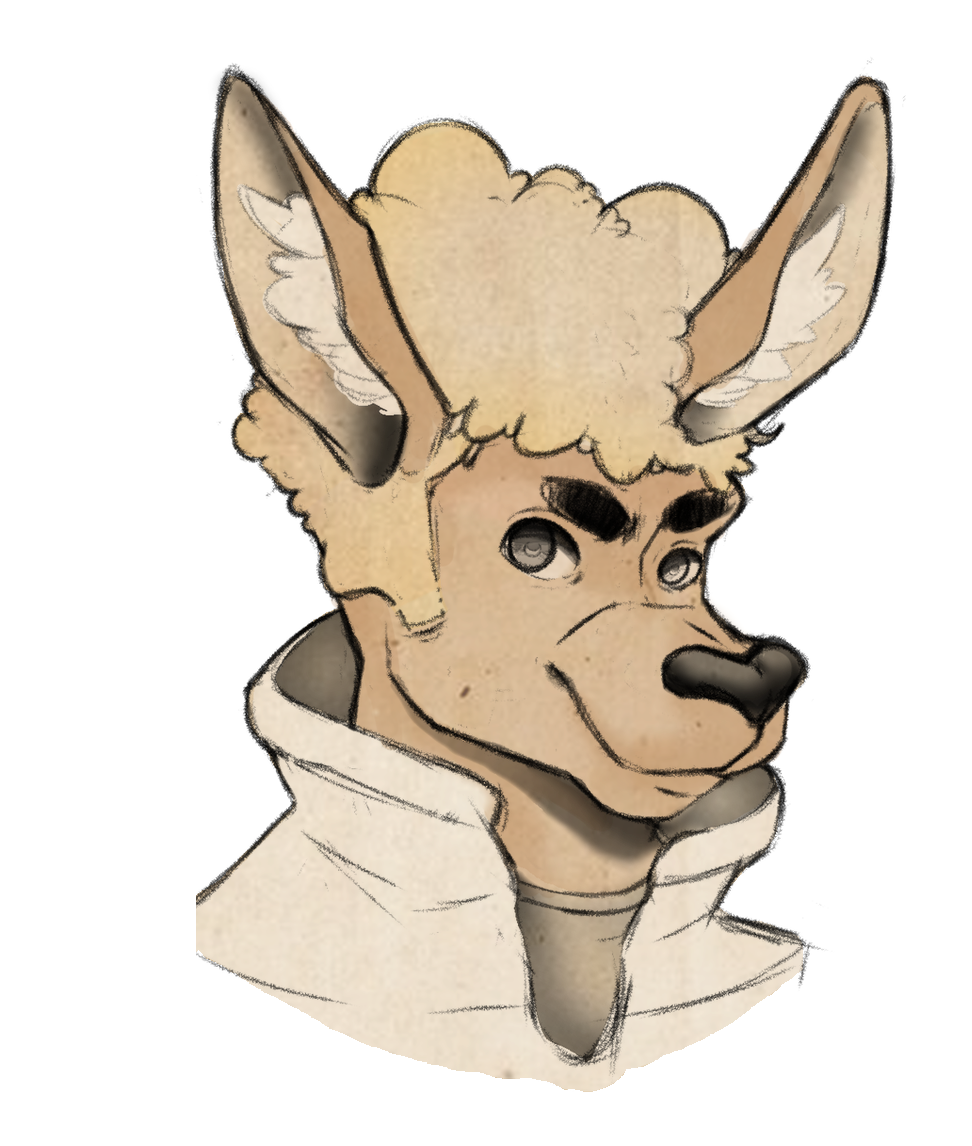
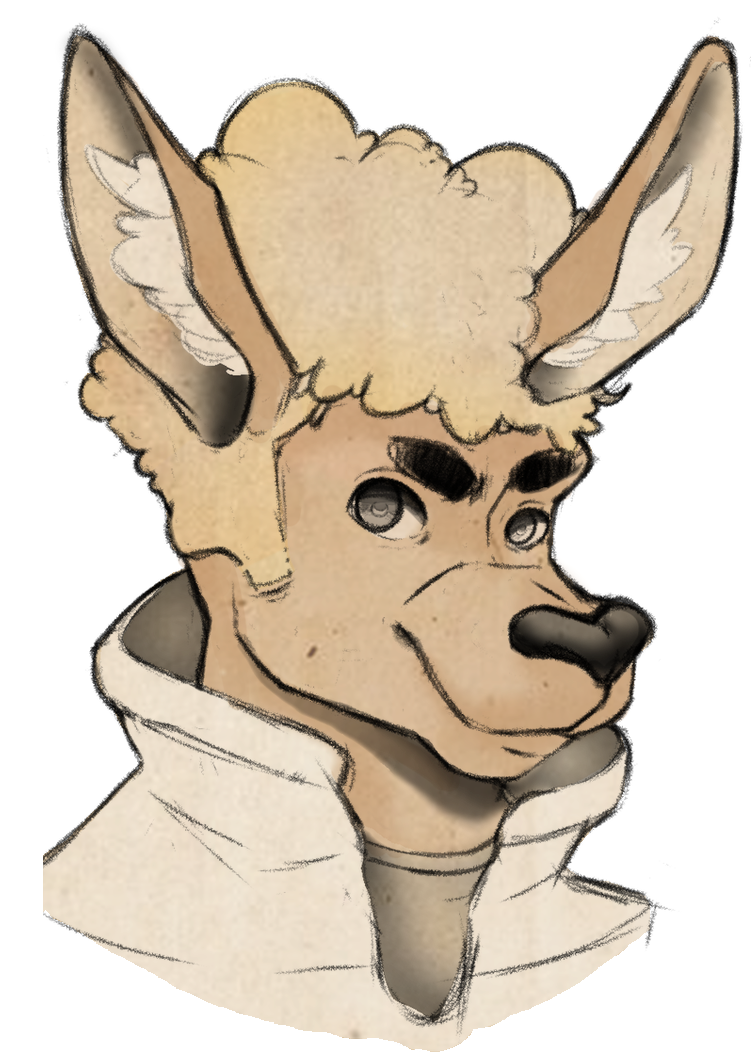
Adjusted sizes

diff --git a/comms.html b/comms.html
@@ -48,7 +48,7 @@
                 <h1 class="display-5 fw-bold lh-1 mb-3" id="fade">Icons 10$</h1>
             </div>
             <div class="col-10 col-sm-8 col-lg-6">
-                <img src="assets/icon_example.png" class="main_headshot d-block mx-lg-auto img-fluid" alt="headshot" width=auto loading="lazy">
+                <img src="assets/icon_example.png" class="main_headshot d-block mx-lg-auto img-fluid" alt="headshot" width=400vp loading="lazy">
             </div>
             <div class="col-lg-6">
                 <h1 class="display-5 fw-bold lh-1 mb-3" id="fade">Half body 20$</h1>
